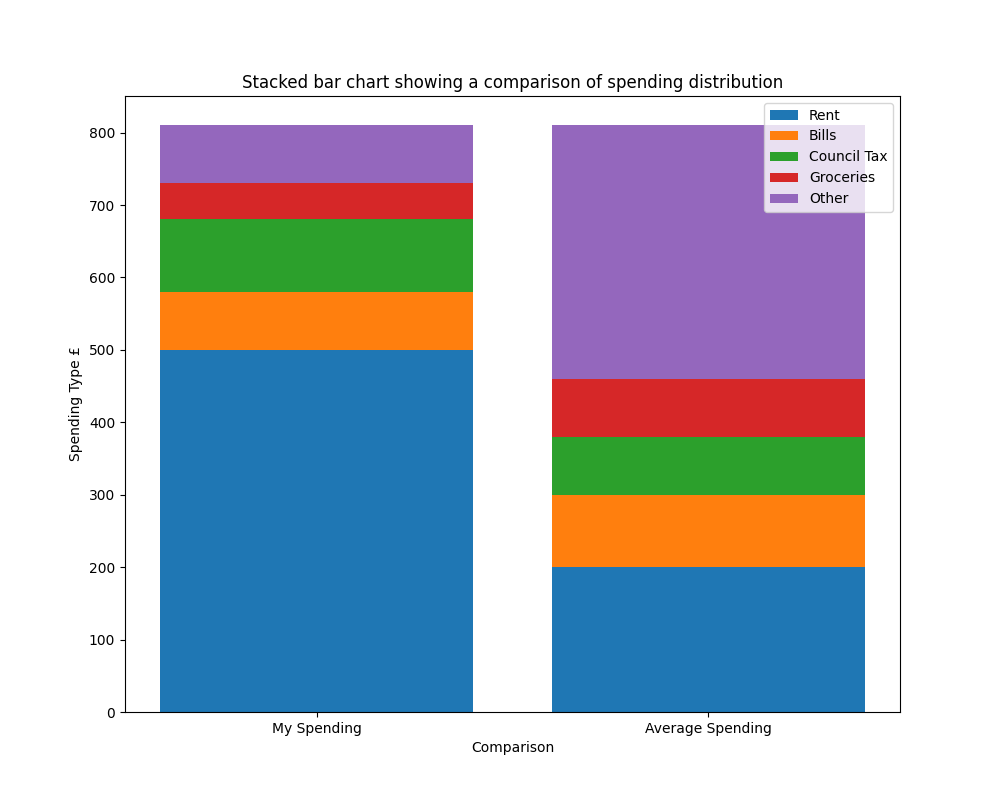
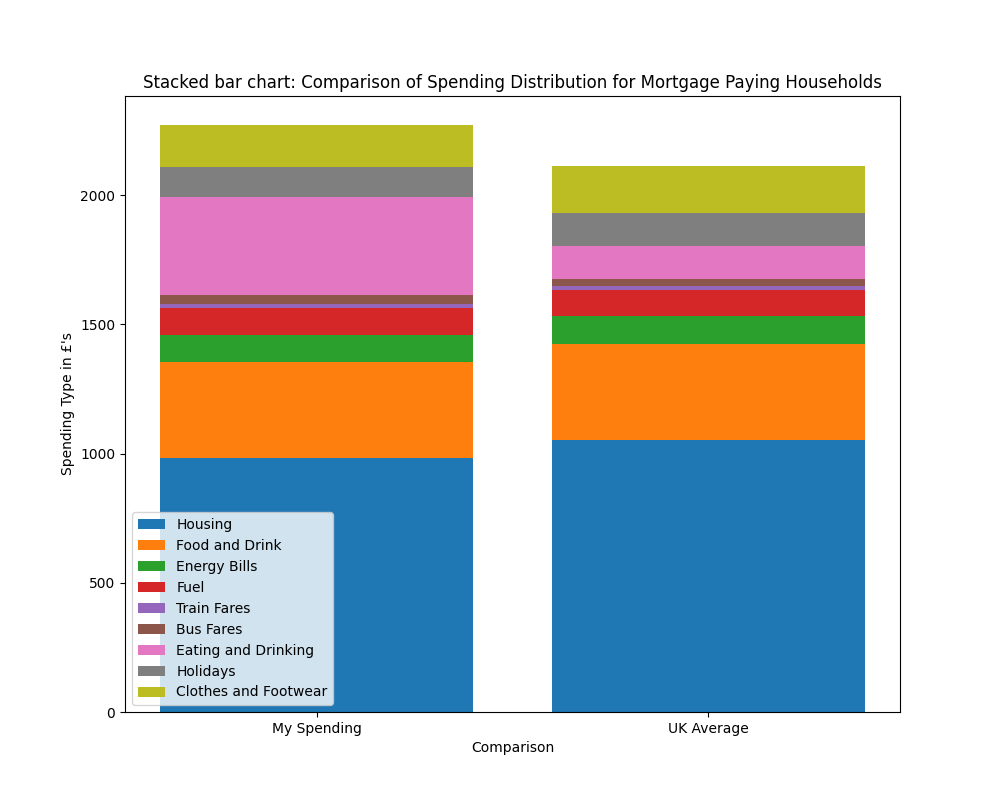
updated graph code with ONS example figures

diff --git a/application/static/poc_stack.py b/application/static/poc_stack.py
@@ -1,39 +1,51 @@
 from matplotlib import pyplot as plt
 import numpy as np
 
-expenditure = ['My Spending', 'Average Spending']
-rent = [500, 200]
-bills = [80, 100]
-council_tax = [100, 80]
-groceries = [50, 80]
-other = [80, 350]
+expenditure = ['My Spending', 'UK Average']
+housing = [981, 1054]
+groceries = [372, 368]
+bills = [107, 112]
+fuel = [102, 98]
+train = [15, 18]
+bus = [35, 26]
+cafe = [382, 128]
+holiday = [115, 128]
+clothes = [161, 181]
 
 # number of columns in the stacked bar chart
 x = range(2)
 
 # calculations to add up the height of the stacks
-c_bottom = np.add(rent, bills)
-g_bottom = np.add(c_bottom, council_tax)
-o_bottom = np.add(g_bottom, groceries)
+bills_bottom = np.add(housing, groceries)
+fuel_bottom = np.add(bills_bottom, bills) # each time taking the height of the existing stack and adding on the previous stacked bar
+train_bottom = np.add(fuel_bottom, fuel)
+bus_bottom = np.add(train_bottom, train)
+cafe_bottom = np.add(bus_bottom, bus)
+holiday_bottom = np.add(cafe_bottom, cafe)
+clothes_bottom = np.add(holiday_bottom, holiday)
 
 # code to create the graph
 plt.figure(figsize=(10, 8))
 ax = plt.subplot()
-plt.bar(x, rent)
-plt.bar(x, bills, bottom = rent)
-plt.bar(x, council_tax, bottom = c_bottom)
-plt.bar(x, groceries, bottom = g_bottom) # for 2 columns, display the value in the groceries list, use the start position for the colour as the sum of all the values of the heights of the other bars
-plt.bar(x, other, bottom = o_bottom)
+plt.bar(x, housing)
+plt.bar(x, groceries, bottom = housing)
+plt.bar(x, bills, bottom = bills_bottom)
+plt.bar(x, fuel, bottom = fuel_bottom) # for 2 columns, display the cost of fuel, use the start position for the stacked bar as the sum of all the values of the heights of the other bars
+plt.bar(x, train, bottom = train_bottom)
+plt.bar(x, bus, bottom = bus_bottom)
+plt.bar(x, cafe, bottom = cafe_bottom)
+plt.bar(x, holiday, bottom = holiday_bottom)
+plt.bar(x, clothes, bottom = clothes_bottom)
 
 # just have 2 markers on the x-axis because the length of the expenditure list is 2
 ax.set_xticks(range(len(expenditure)))
 # use the strings in the expenditure list to label those markers
 ax.set_xticklabels((expenditure))
 
-plt.title("Stacked bar chart showing a comparison of spending distribution")
+plt.title("Stacked bar chart: Comparison of Spending Distribution for Mortgage Paying Households")
 plt.xlabel("Comparison")
-plt.ylabel("Spending Type £")
-plt.legend(("Rent", "Bills", "Council Tax", "Groceries", "Other"))
+plt.ylabel("Spending Type in £'s")
+plt.legend(("Housing", "Food and Drink", "Energy Bills", "Fuel", "Train Fares", "Bus Fares", "Eating and Drinking", "Holidays", "Clothes and Footwear"))
 
 plt.savefig('application/static/barstack.png')
 

diff --git a/application/static/poc_pie.py b/application/static/poc_pie.py
@@ -3,8 +3,8 @@ from matplotlib import pyplot as plt
 
 # creates a dataframe that matplot can use
 df = pd.DataFrame({
-    'expenditure': ['rent', 'council tax', 'bills', 'groceries', 'other'],
-    'spending': [500, 80, 100, 50, 10]
+    'expenditure': ['housing', 'food and drink', 'energy bills', 'petrol or diesel', 'train fares', 'bus fares', 'eating and drinking', 'holidays', 'clothes and footwear'],
+    'spending': [368, 771, 112, 98, 18, 26, 285, 128, 181]
 })
 
 # creates the size of the pie chart
@@ -13,8 +13,9 @@ plt.figure(figsize=(6,4))
 plt.subplot()
 # which data to use and to display a whole figure percentage
 plt.pie(df['spending'], autopct='%d%%')
-plt.title("Pie Chart to show spending distribution")
-plt.legend(df['expenditure'], loc='upper right')
+plt.axis('equal')
+plt.title("Spending distribution for Average UK Household - Renting")
+plt.legend(df['expenditure'], loc='upper right', bbox_to_anchor=(1,1), fontsize=7)
 
 # put that pie chart in a saved file
 plt.savefig('application/static/piechart.png')
